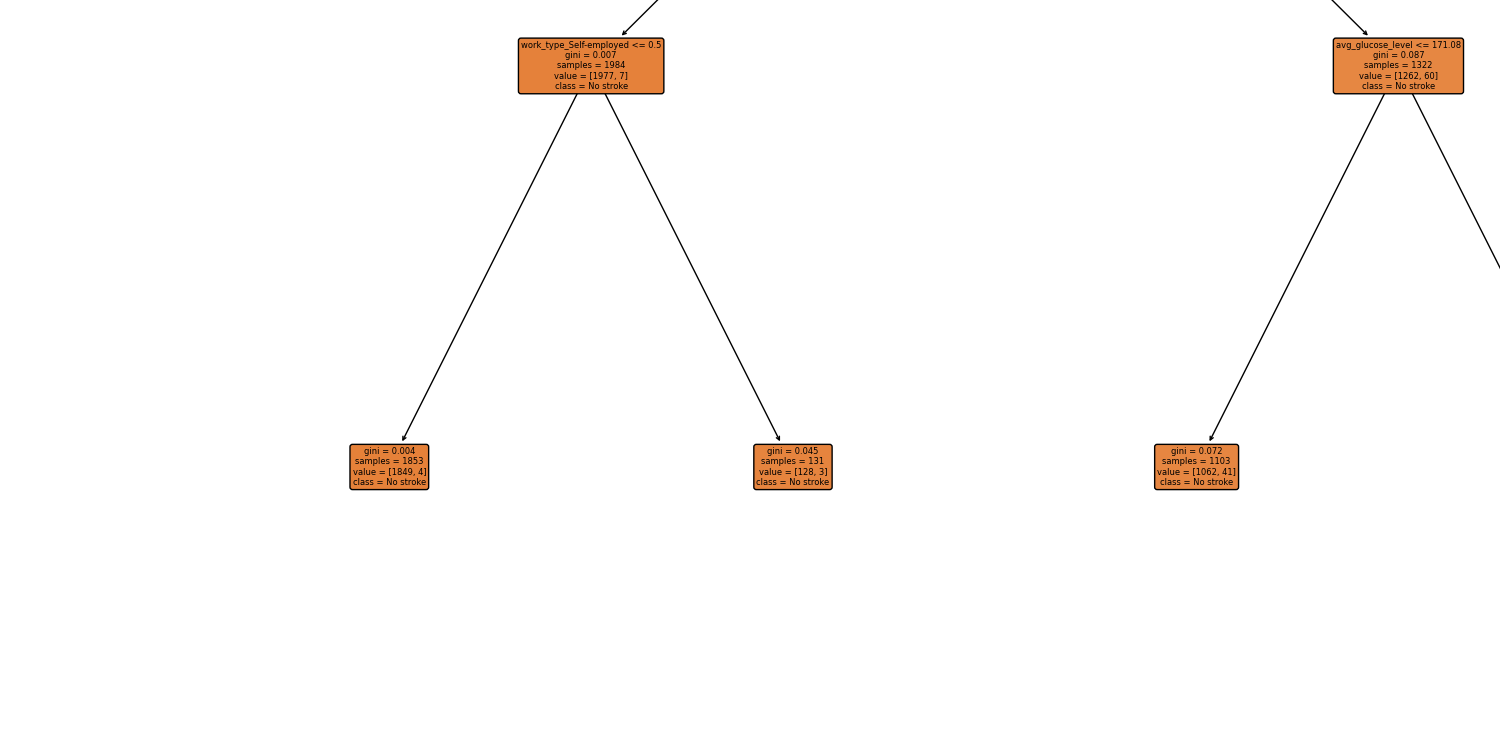
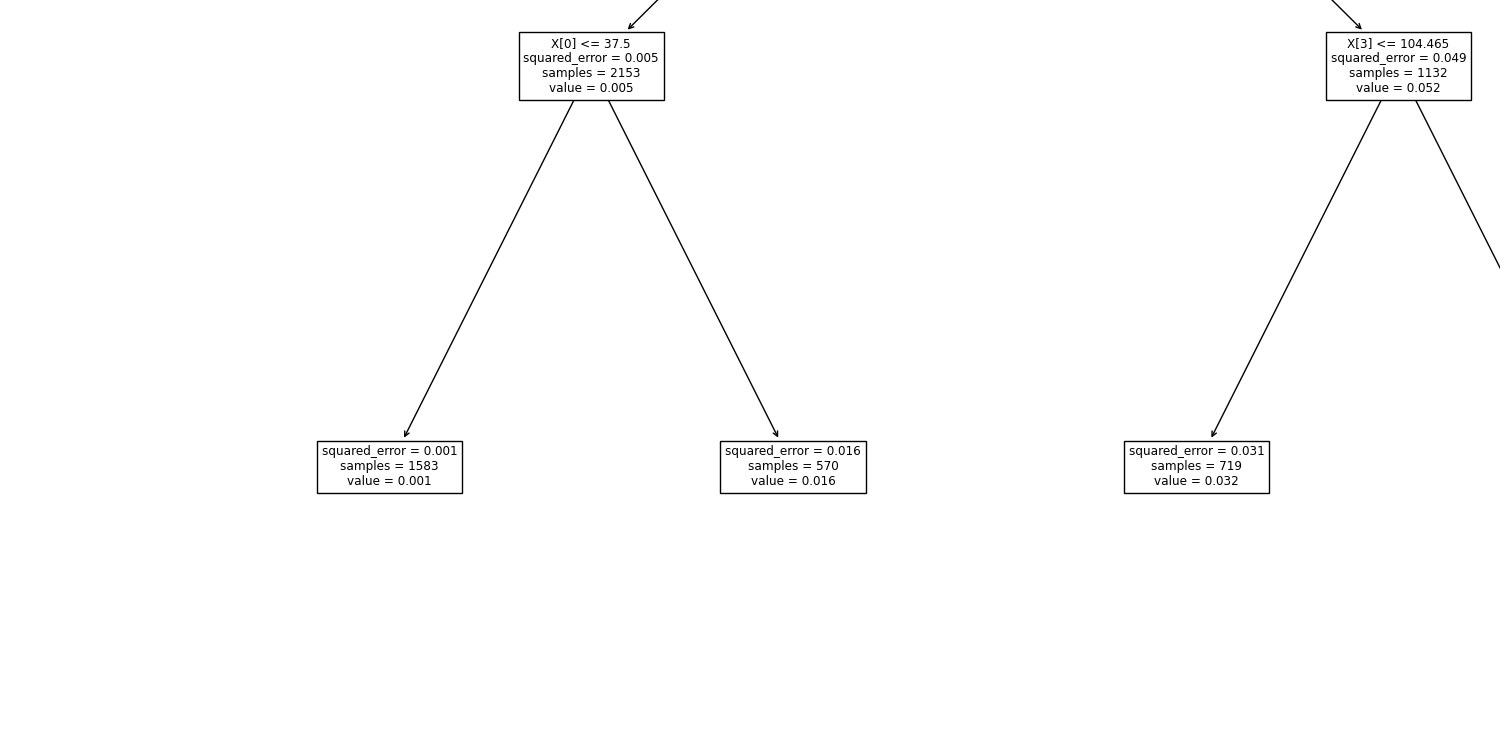
update

diff --git a/decissiontreebyhand.py b/decissiontreebyhand.py
@@ -9,8 +9,8 @@ def entropy(y):
     return -np.sum(p * np.log2(p) for p in ps if p > 0)
 
 class Node():
-    def __init__(self, feature_index=None, threshold=None, left=None, right=None, var_red=None, *, value=None):
-        self.feature_index = feature_index
+    def __init__(self, feature=None, threshold=None, left=None, right=None, var_red=None, *, value=None):
+        self.feature = feature
         self.threshold = threshold
         self.left = left
         self.right = right
@@ -32,6 +32,10 @@ class DecisionTree():
         self.n_feats = X.shape[1] if not self.n_feats else min (self.n_feats, X.shape[1])
         self.root = self._grow_tree(X,y)
 
+    def predicT(self, X):
+        #traverse tree
+        return np.array([self._traverse_tree(x, self.root) for x in X])
+
     def _grow_tree(self, X, y, depth = 0):
         n_samples, n_features = X.shape
         n_labels = len(np.unique(y))
@@ -42,32 +46,32 @@ class DecisionTree():
         
         feat_idxs = np.random.choice(n_features,self.n_feats, replace=False)    
         #greedy seach
-        beast_feat, best_thresh = self._best_criteria(X, y, feat_idxs)
+        best_feat, best_thresh = self._best_criteria(X, y, feat_idxs)
 
         left_idxs, right_idxs = self._split(X[:, beast_feat], best_thresh)
         left = self._grow_tree(X[left_idxs, :], y[left_idxs], depth+1)
         right = self._grow_tree(X[right_idxs, :], y[right_idxs], depth+1)
-        return Node(beast_feat, best_thresh, left, right)
+        return Node(best_feat, best_thresh, left, right)
 
     def _best_criteria(self, X, y, feat_idxs):
         best_gain = -1
-        split_idx, split_threh = None, None
+        split_idx, split_thresh = None, None
         for feat_idx in feat_idxs:
-            X_columns = X[:, feat_idx]
-            thresholds = np.unique(X_columns)
+            X_column = X[:, feat_idx]
+            thresholds = np.unique(X_column)
             for threshold in thresholds:
                 gain = self._information_gain(y, X_columns, threshold)
                 if gain > best_gain:
                     best_gain = gain
                     split_idx = feat_idx
-                    split_threh = threshold
+                    split_thresh = threshold
         return split_idx, split_threh
 
-    def _information_gain(self, y, X_column, split_threh):
+    def _information_gain(self, y, X_column, split_thresh):
         #parent E
         parent_entro = entropy(y)
         #generate split
-        left_idxs, right_idxs = self._split(X_column, split_threh)
+        left_idxs, right_idxs = self._split(X_column, split_thresh)
         if len(left_idxs) == 0 or len(right_idxs) == 0:
             return 0
         #weighted average child E
@@ -78,16 +82,15 @@ class DecisionTree():
         
         #return ig
         ig = parent_entro - child_ent
+        return ig
 
-    def _split(self, X_column, split_threh):
-        left_idxs = np.argwhere(X_column <= split_threh).flatten()
-        right_idxs = np.argwhere(X_column > split_threh).flatten()
+    def _split(self, X_column, split_threhs):
+        left_idxs = np.argwhere(X_column <= split_thresh).flatten()
+        right_idxs = np.argwhere(X_column > split_thresh).flatten()
 
         return left_idxs, right_idxs
     
-    def predicT(self, X):
-        #traverse tree
-        return np.array([self._traverse_tree(x) for x in X])
+
     
     def _traverse_tree(self, x, node):
         if node.is_leaf_node():

diff --git a/test.py b/test.py
@@ -1,0 +1,59 @@
+import numpy as np
+import pandas as pd
+from sklearn.tree import DecisionTreeRegressor
+from sklearn.tree import plot_tree
+from sklearn.model_selection import train_test_split
+from pandas.core.common import SettingWithCopyWarning
+import warnings 
+warnings.simplefilter(action="ignore", category=SettingWithCopyWarning)
+import matplotlib.pyplot as plt
+from sklearn.preprocessing import LabelEncoder
+from decissiontreebyhand import DecisionTree
+import category_encoders as enc
+from sklearn.metrics import accuracy_score
+import graphviz
+
+def accuracy(y_true, y_pred):
+    acc = np.sum(y_true == y_pred)/len(y_true)
+    return accuracy
+
+def clean_dataset(df):
+    assert isinstance(df, pd.DataFrame), "df needs to be a pd.DataFrame"
+    df.dropna(inplace=True)
+    indices_to_keep = ~df.isin([np.nan, np.inf, -np.inf]).any(1)
+    return df[indices_to_keep].astype(np.float64)
+
+#read the data from the csv and delete blank spaces on columns names
+df = pd.read_csv('', header=None)
+names_rows = ['buying','maint','doors','persons','lug_boot','safety','class']
+
+df.columns = names_rows
+
+X= df.drop(['class'],axis=1)
+y=df['class']
+
+X_train, X_test, y_train, y_test = train_test_split(X,y, test_size=0.2, random_state=42)
+
+encoder = enc.OrdinalEncoder(cols=['buying','maint','doors','persons','lug_boot','safety'])
+
+X_train = encoder.fit_transform(X_train)
+X_test = encoder.transform(X_test)
+
+clf_gini = DecisionTreeClassifier(criterion='gini', max_depth=3, random_state=0)
+clf_gini.fit(X_train, y_train)
+
+y_pred_gini = clf_gini.predict(X_test)
+print("Acuraccy with gini index was", accuracy_score(y_test, y_pred_gini))
+
+y_predict_train_gini = clf_gini.predict(X_train)
+print("training Acuraccy with gini index was", accuracy_score(y_test, y_pred_gini))
+
+
+dot_data = tree.export_graphviz(clf_gini, out_file=None, feature_names=X_train.columns, class_names=y_train, filled=True, rounded=True, special_characters=True)
+graph=graphviz.Source(dot_data)
+graph
+
+
+
+
+

diff --git a/stroke_pre_fra2.py b/stroke_pre_fra2.py
@@ -1,6 +1,6 @@
 import numpy as np
 import pandas as pd
-from sklearn.tree import DecisionTreeClassifier
+from sklearn.tree import DecisionTreeRegressor
 from sklearn.tree import plot_tree
 from sklearn.model_selection import train_test_split
 from pandas.core.common import SettingWithCopyWarning
@@ -38,14 +38,13 @@ print(expl_n)
 
 X_train, X_test, y_train, y_test = train_test_split(expl_n, obj, test_size=0.2)
 
-model = DecisionTreeClassifier(min_samples_split=2, max_depth=3)
+model = DecisionTreeRegressor(min_samples_split=2, max_depth=3)
 
 model.fit(X_train, y_train)
 model.score(X_test, y_test)
-DecisionTreeClassifier()
 
-treeFigure = plt.figure(figsize=(15, 7.5))
+treeFigure = plt.figure(figsize=(150, 155), dpi=42)
 
-ex = plot_tree(model, feature_names=expl_n.columns, rounded=True, class_names=["No stroke", "Stroke"], filled=True)
+ex = plot_tree(model, feature_names=expl_n.columns, rounded=True, class_names=["No stroke", "Stroke"], filled=False)
 
-treeFigure.savefig("decission.png")
+treeFigure.savefig("decission.jpg")
